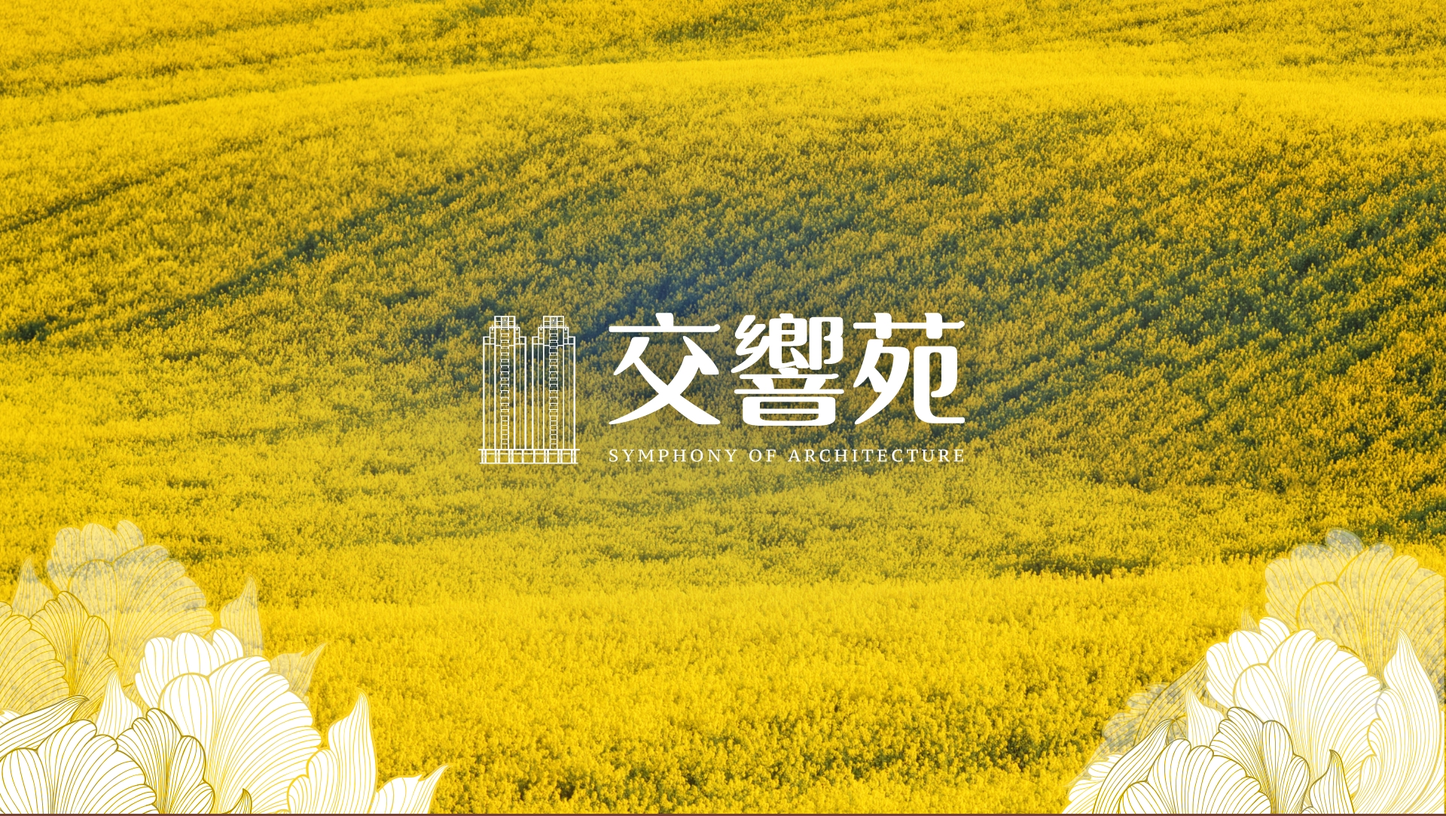
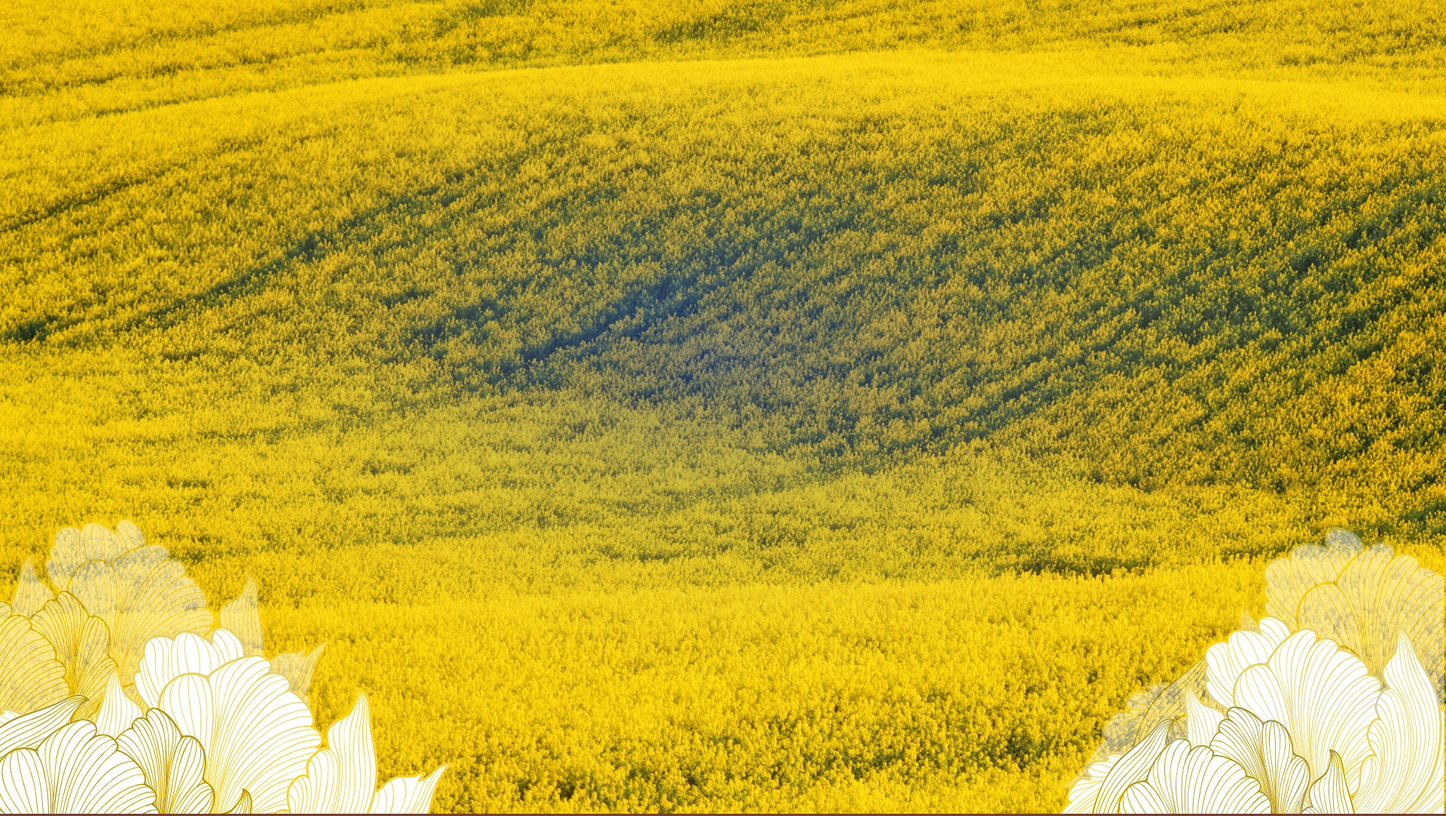
feat: 簡易進度

Changed region(s): [[0.3125, 0.3657, 0.6875, 0.5789]]

diff --git a/src/views/Home.vue b/src/views/Home.vue
@@ -1,7 +1,11 @@
 <template>
   <div class="home">
     <Nav :theme="'home-theme'" />
-    <div class="bg"></div>
+    <div class="bg">
+      <div class="logo" data-aos="fade-up" data-aos-duration="2000">
+        <img src="@/assets/home/logo.png" alt="" srcset="" />
+      </div>
+    </div>
   </div>
 </template>
 
@@ -13,9 +17,18 @@
     position: relative;
     width: 100%;
     height: 100%;
-    background-image: url('../assets/home/bg.jpg');
+    background-image: url("../assets/home/bg.jpg");
     background-size: cover;
     background-position: center center;
+    display: flex;
+    align-items: center;
+    justify-content: center;
+  }
+  .logo {
+    width: size(782);
+    img {
+      width: 100%;
+    }
   }
 }
 </style>

diff --git a/src/views/Product.vue b/src/views/Product.vue
@@ -1,9 +1,27 @@
 <template>
-    <div>
-        產品
+  <div class="product">
+    產品
+    <div class="bg"></div>
     <Nav :theme="'product-theme'" />
-    </div>
+  </div>
 </template>
+
+<style lang="scss" scoped>
+.product {
+  width: 100%;
+  height: 100vh;
+  .bg {
+    position: absolute;
+    top: 0;
+    left: 0;
+    width: 100%;
+    height: 100%;
+    background-image: url("../assets/product/bg.jpg");
+    background-size: cover;
+    background-position: center center;
+  }
+}
+</style>
 
 <script>
 import Nav from "../components/layout/nav.vue";

diff --git a/src/views/Env.vue b/src/views/Env.vue
@@ -1,9 +1,26 @@
 <template>
-    <div>
-        周邊環境
+    <div class="env">
+    <div class="bg"></div>
     <Nav :theme="'env-theme'"/>
     </div>
 </template>
+
+<style lang="scss" scoped>
+.env {
+  width: 100%;
+  height: 100vh;
+  .bg {
+    position: absolute;
+    top: 0;
+    left: 0;
+    width: 100%;
+    height: 100%;
+    background-image: url("../assets/env/bg.jpg");
+    background-size: cover;
+    background-position: center center;
+  }
+}
+</style>
 
 <script>
 import Nav from "../components/layout/nav.vue";

diff --git a/src/views/Team.vue b/src/views/Team.vue
@@ -1,9 +1,27 @@
 <template>
-  <div>
-    團隊介紹
+  <div class="team">
+    <div class="bg"></div>
     <Nav :theme="'team-theme'"/>
   </div>
 </template>
+
+
+<style lang="scss" scoped>
+.team {
+  width: 100%;
+  height: 100vh;
+  .bg {
+    position: absolute;
+    top: 0;
+    left: 0;
+    width: 100%;
+    height: 100%;
+    background-image: url("../assets/team/bg.jpg");
+    background-size: cover;
+    background-position: center center;
+  }
+}
+</style>
 
 <script>
 import Nav from "../components/layout/nav.vue";

diff --git a/src/components/product/texture.vue b/src/components/product/texture.vue
@@ -1,0 +1,30 @@
+<template>
+  <div class="texture">
+    <div class="bg"></div>
+  </div>
+</template>
+
+<style lang="scss" scoped>
+.texture {
+  width: 100%;
+  height: 100vh;
+  .bg {
+    position: absolute;
+    top: 0;
+    left: 0;
+    width: 100%;
+    height: 100%;
+    background-image: url("../../assets/product/texture/bg.jpg");
+    background-size: cover;
+    background-position: center center;
+  }
+}
+</style>
+
+<script>
+export default {
+  name: "ProductTexture",
+  components: {
+  },
+};
+</script>
